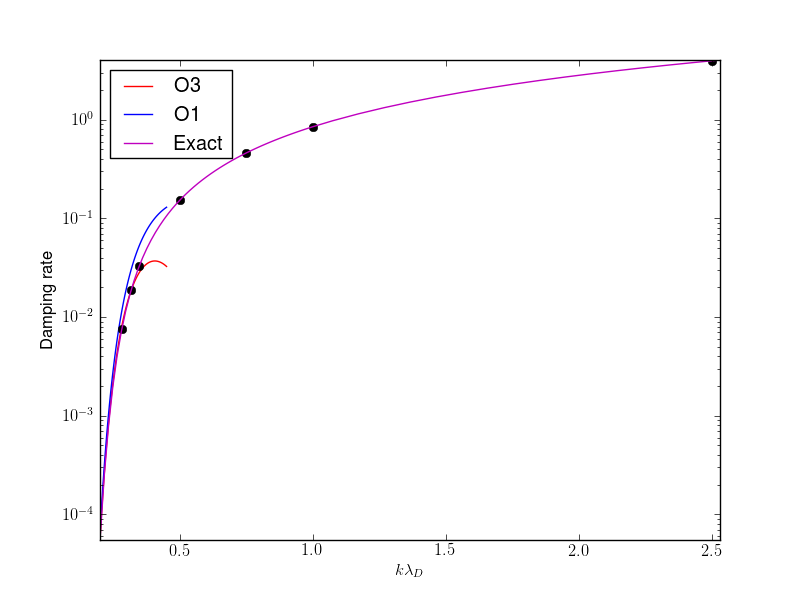
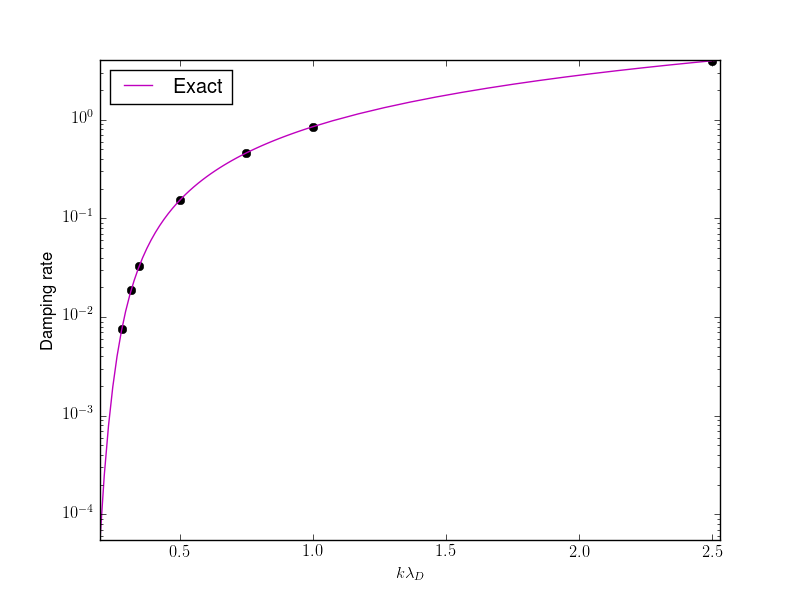
Updated plotting script and corresponding plot

diff --git a/je/je15/plot-damping-rates-elc-osc.py b/je/je15/plot-damping-rates-elc-osc.py
@@ -29,8 +29,8 @@ sp = subplot(111)
 #loglog(K, -dampOrder3(K), '-r', label='O3')
 #loglog(K, -dampOrder1(K), '-b', label='O1')
 #loglog(dat[:,0], dat[:,1], 'ko')
-semilogy(K, -dampOrder3(K), '-r', label='O3')
-semilogy(K, -dampOrder1(K), '-b', label='O1')
+#semilogy(K, -dampOrder3(K), '-r', label='O3')
+#semilogy(K, -dampOrder1(K), '-b', label='O1')
 semilogy(dat[:,0], dat[:,1], 'ko')
 datEx = loadtxt('exact-ld-damping-rates-elc-osc.txt')
 semilogy(datEx[:,0], -datEx[:,1], 'm-', label='Exact')
